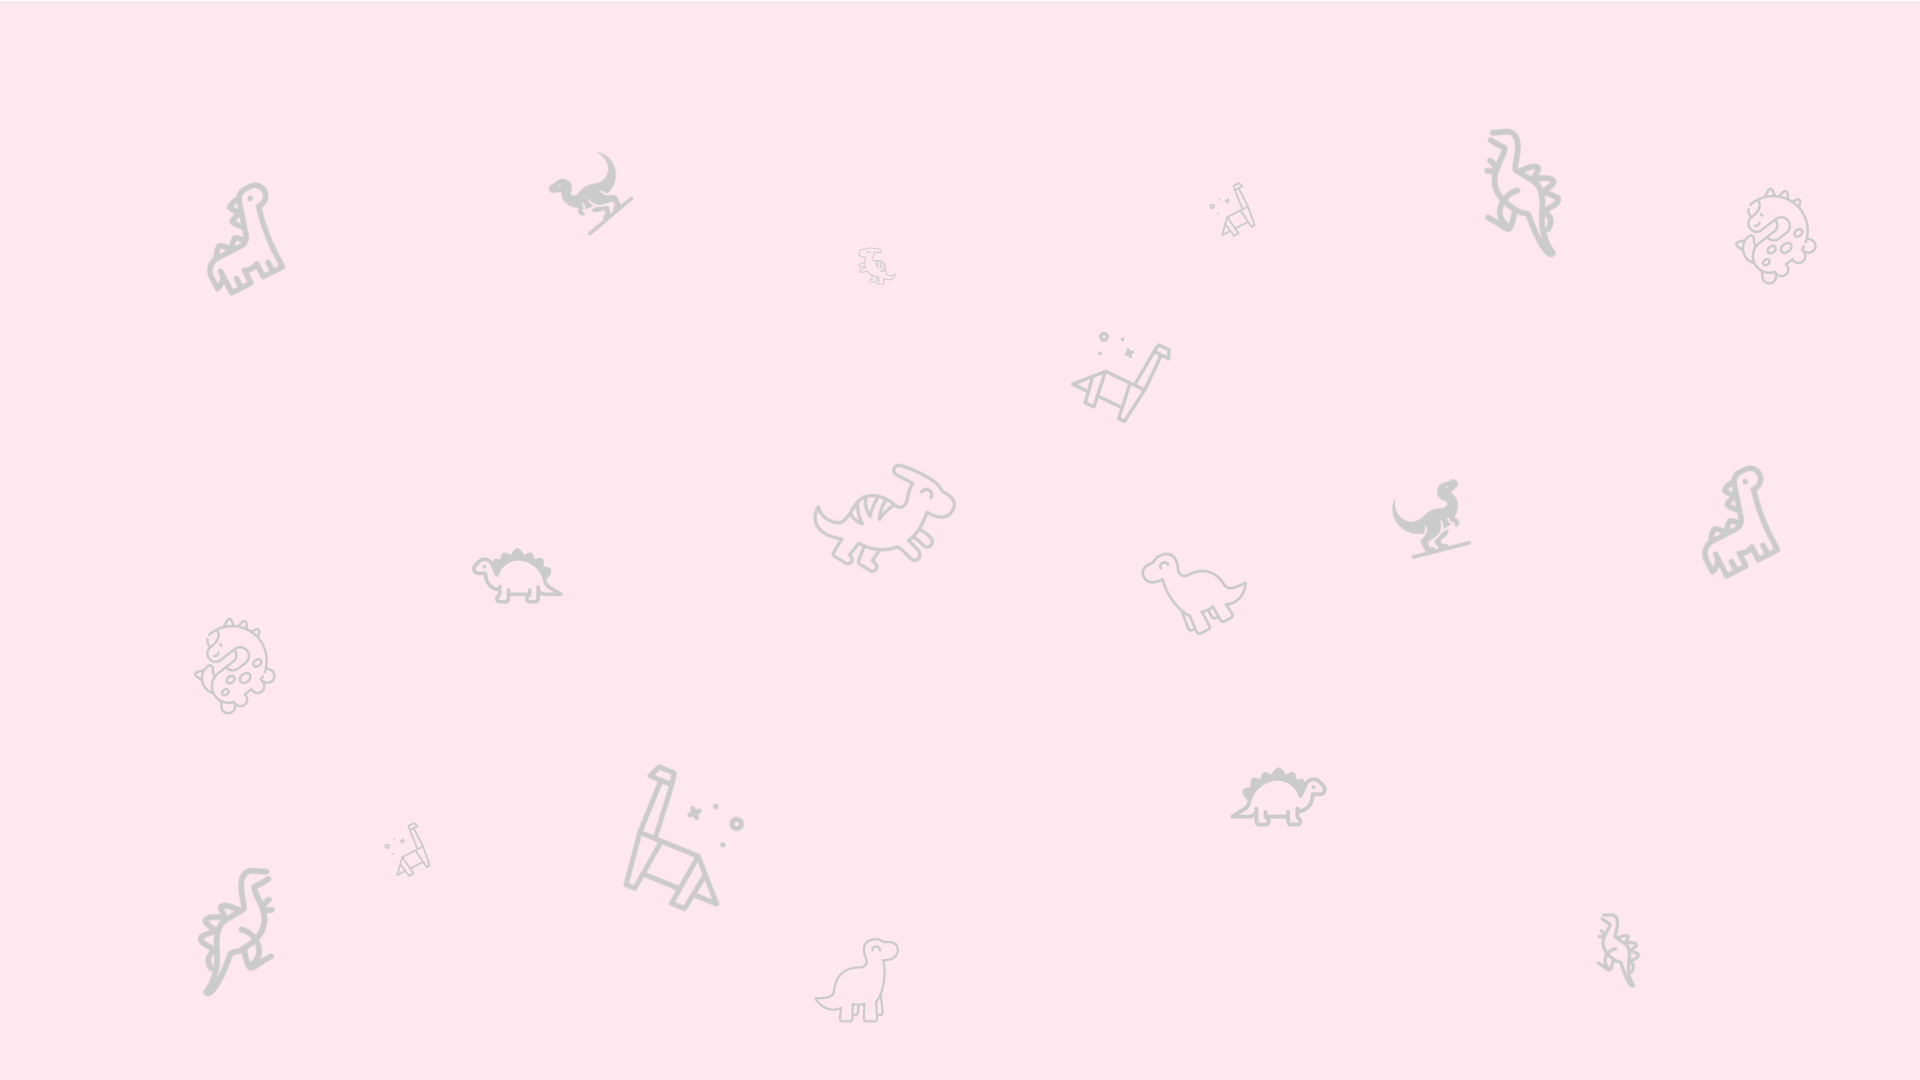
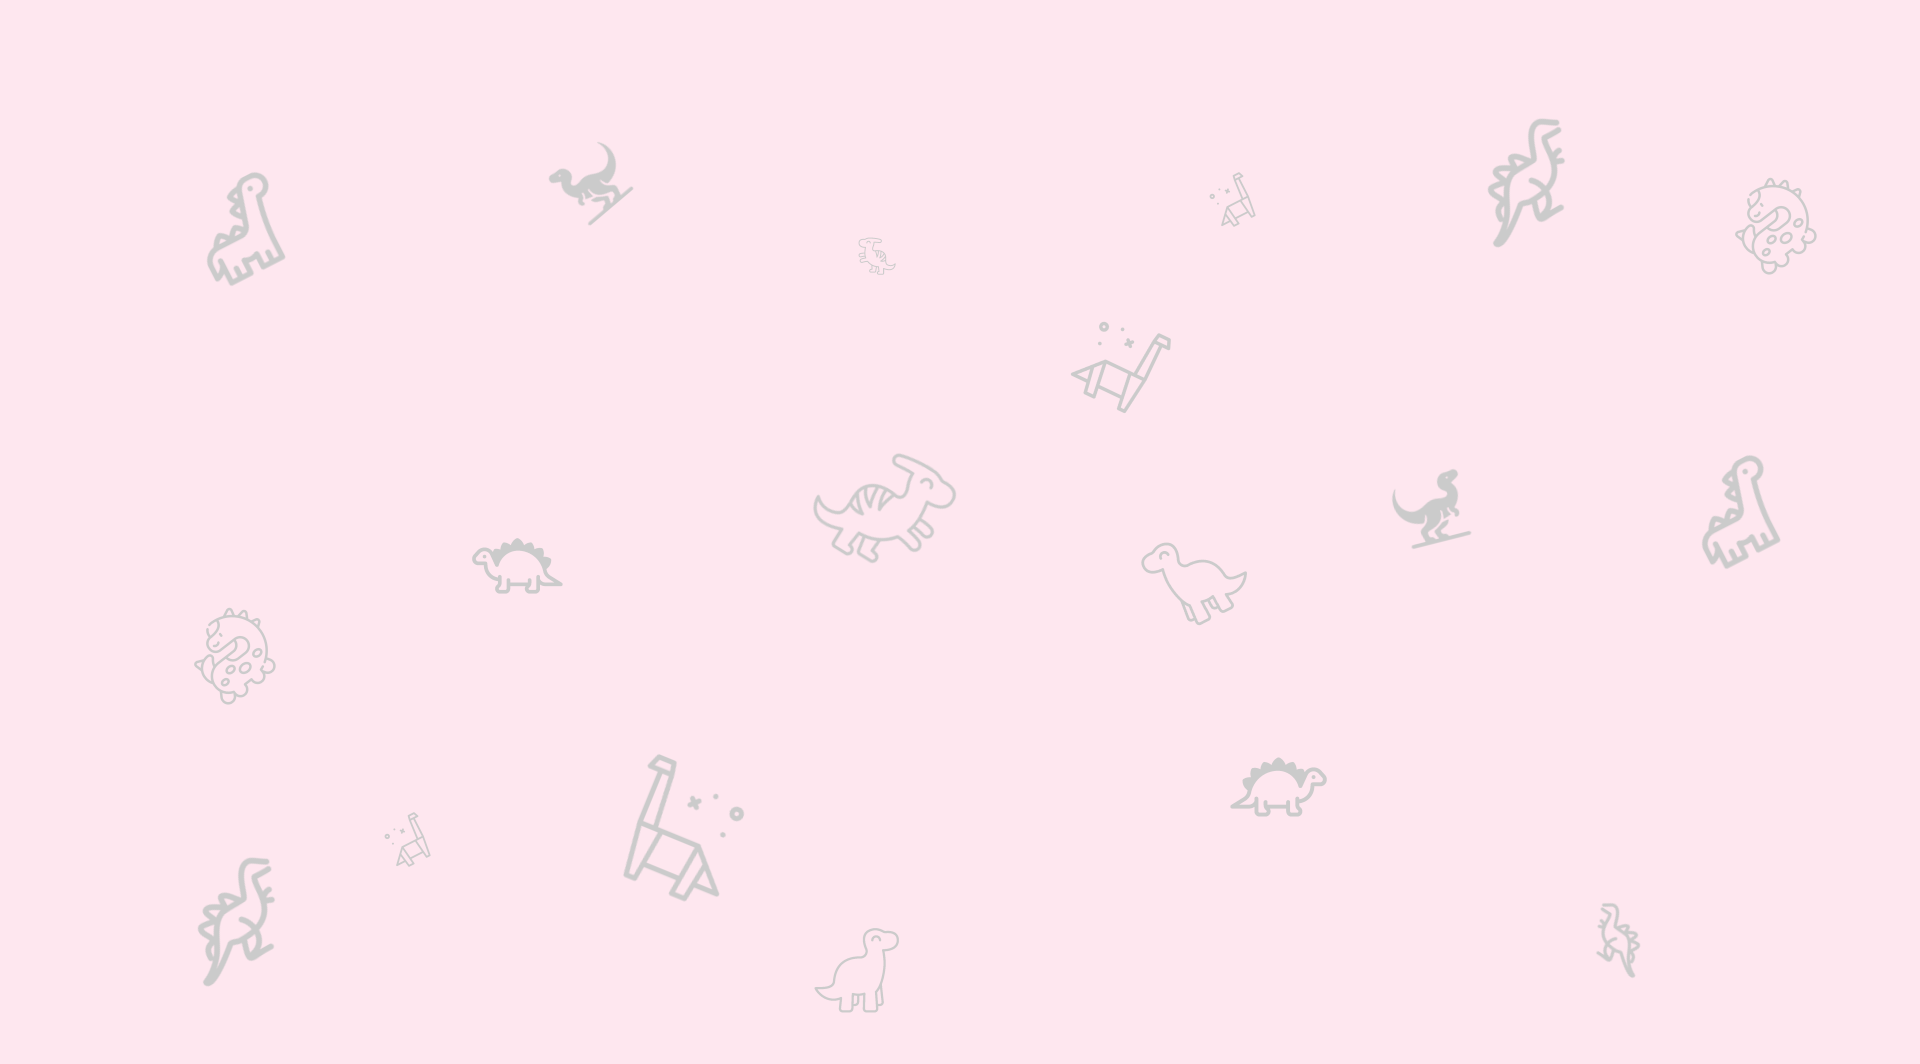
:monocle_face: thinking in UI/UX

diff --git a/src/styles/contents/homecontent.style.scss b/src/styles/contents/homecontent.style.scss
@@ -1,18 +1,131 @@
 @charset "UTF-8";
+@import "../colors.scss";
 
-.homeContentContainer {
+.homeContentContainerTitle {
     display: flex;
-    align-items: center;
-    justify-content: center;
-    flex-direction: column;
+    align-items: start;
+    flex-direction: row;
+    padding: 20px;
+    border-bottom: 1px solid $lightGray;
 
     img {
-        width: 300px;
+        width: 70px;
+        transform: scaleX(-1);
+        margin-right: 30px;
     }
 
     h1 {
-        text-align: center;
         font-size: 17pt;
         margin: 14px 0;
+    }
+}
+
+.infoContainer {
+    display: flex;
+    flex-direction: row;
+
+    .planInfoContainer {
+        border: solid 2px $lightGray;
+        border-radius: 5px;
+        box-shadow: 4px 4px 12px $lightGray;
+        width: 32%;
+        display: flex;
+        align-items: center;
+        flex-direction: column;
+        margin: 20px 10px;
+        transition: .4s;
+        padding: 10px;
+
+        h2 {
+            font-size: 12pt;
+        }
+
+        img {
+            width: 200px;
+            margin-top: 20px;
+            margin-bottom: 20px;
+        }
+
+        h4 {
+            width: 100%;
+            border-top: 1px $lightGray solid;
+            padding: 10px;
+            text-align: center;
+        }
+
+        button {
+            background-color: $accentColor;
+            color: $white;
+            width: 90%;
+            margin-bottom: 20px;
+            padding: 12px;
+            font-size: 12pt;
+            font-weight: 500;
+            border-radius: 5px;
+            transition: .4s;
+        }
+
+        button:hover {
+            background-color: $accentColorDarker;
+            transition: .4s;
+            cursor: pointer;
+        }
+    }
+
+    .planInfoContainer:hover {
+        transform: scale(1.025);
+        transition: .4s;
+    }
+
+    .planningsInfoContainer {
+        border: solid 2px $lightGray;
+        border-radius: 5px;
+        box-shadow: 4px 4px 12px $lightGray;
+        width: 32%;
+        display: flex;
+        align-items: center;
+        flex-direction: column;
+        margin: 20px 10px;
+        transition: .4s;
+        padding: 10px;
+
+        h2 {
+            font-size: 12pt;
+        }
+
+        img {
+            width: 110px;
+            margin-top: 30px;
+            margin-bottom: 30px;
+        }
+
+        h4 {
+            font-size: 10pt;
+            margin-bottom: 5px;
+                        width: 100%;
+                        text-align: center;
+        }
+
+        h4.first {
+            border-top: solid 1px $lightGray;
+        }
+
+                button {
+            background-color: $accentColor;
+            color: $white;
+            width: 90%;
+            margin-bottom: 20px;
+            padding: 12px;
+            font-size: 12pt;
+            font-weight: 500;
+            border-radius: 5px;
+            transition: .4s;
+        }
+
+        button:hover {
+            background-color: $accentColorDarker;
+            transition: .4s;
+            cursor: pointer;
+        }
     }
 }

diff --git a/src/views/contents/HomeContent.vue b/src/views/contents/HomeContent.vue
@@ -1,11 +1,30 @@
 <template>
-    <div class="homeContentContainer">
-        <img src="../../assets/dino_party.png" alt="Dino Party" />
+    <div class="homeContentContainerTitle">
+        <img src="../../assets/profileDino.png" alt="Dino Party" />
         <h1>
             Voce esta na pagina inicial <br />
             Para utilizar nosso sistema, use as abas
         </h1>
     </div>
+    <section class="infoContainer">
+        <div class="planInfoContainer">
+            <h2>Seu plano atual:</h2>
+
+            <img src="../../assets/dino_premium.png" alt="dino premium" />
+
+            <h4>Premium</h4>
+            <button type="button">Acessar plano</button>
+        </div>
+        <div class="planningsInfoContainer">
+            <h2>Seus planejamentos:</h2>
+
+            <img src="../../assets/DinoConsultaPlanejamentos.png" alt="dino premium" />
+
+            <h4 class="first">Semanais: 25/100</h4>
+            <h4>Mensais: 24/100</h4>
+            <button type="button">Ver planejamentos</button>
+        </div>
+    </section>
 </template>
 
 <style lang="scss" scoped src="../../styles/contents/homecontent.style.scss" />
